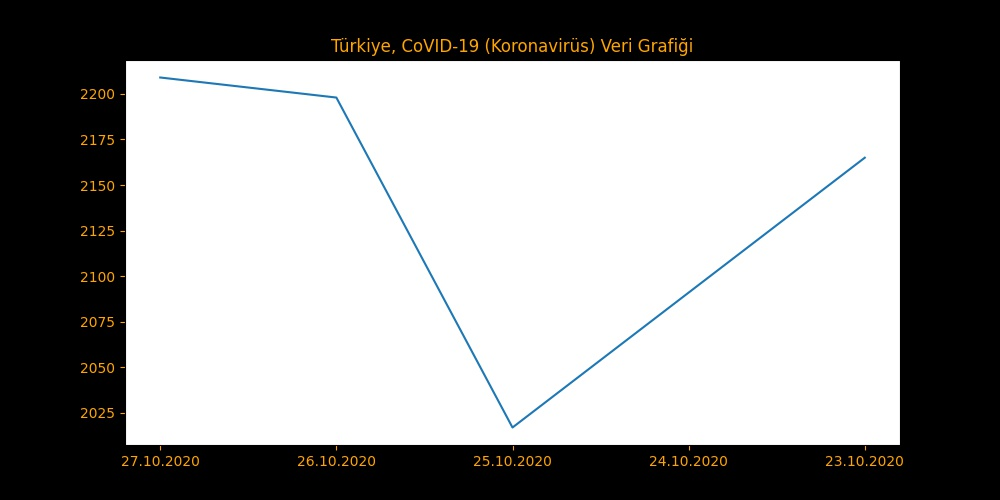
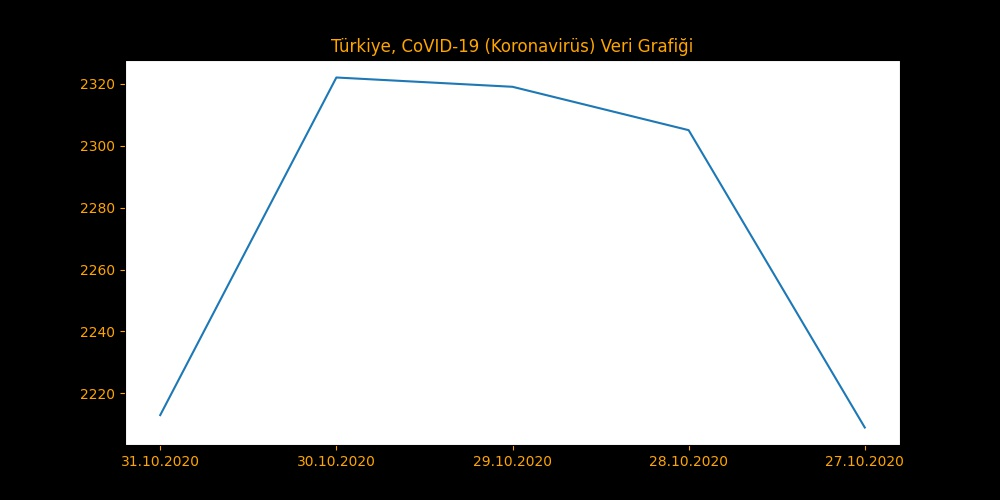
:notebook: 31.10.2020 Update

diff --git a/README_TR.md b/README_TR.md
@@ -11,18 +11,18 @@ Burada, Türkiye'nin [COVID-19 (Koronavirüs) (Hakkında bilgi almak için tıkl
 Not: Bütün veriler, Türkiye Sağlık Bakanlığı'ndan sağlanmaktadır. Eğer veriler güncel değilse, bu büyük ihtimal [devletin web sitesi](https://covid19.saglik.gov.tr) ile alakalıdır. Tamamdır, o zaman başlayalım!
 
 Öncelikle bugünün verileri:
-## :calendar: 27.10.2020 Koronavirüs Verileri:
+## :calendar: 31.10.2020 Koronavirüs Verileri:
 | Veri Tipi         | Bugünün Verileri   | Toplam Veriler     |
 | :---              |    :----           |     :---           |
-| Testler           | 127,651    | 13,565,813    |
-| Vakalar           | 2,209   | 364,788    |
-| Tedaviler         | 1,511    | 318,546|
-| Vefatlar          | 76| 9,951   |
+| Testler           | 124,109    | 14,085,633    |
+| Vakalar           | 2,213   | 373,951    |
+| Tedaviler         | 1,506    | 324,993|
+| Vefatlar          | 75| 10,252   |
 
-:clock9: `Son Güncelleme: 27.10.2020 19:23`
+:clock9: `Son Güncelleme: 01.11.2020 01:49`
 \
 \
-Ülkemiz ile alakalı gönderilen verilerde bir gariplik var. Devletin verdiği toplam veriler ile günlük veriler arasında uyuşmazlık mevcut. Eğer her günün verisini birbirine eklersek, Bizim hesaplamamız vakalar için **1420** tane daha az çıkıyor. Bu, ölümler için **1** , testler için **87361** ve tedavi olanlar için **1027** . Neden devletimiz böyle bir şey yapıyor anlamıyoruz. YOKSA VERİLER YANLIŞ MI??!?\
+Ülkemiz ile alakalı gönderilen verilerde bir gariplik var. Devletin verdiği toplam veriler ile günlük veriler arasında uyuşmazlık mevcut. Eğer her günün verisini birbirine eklersek, Bizim hesaplamamız vakalar için **1416** tane daha az çıkıyor. Bu, ölümler için **0** , testler için **83819** ve tedavi olanlar için **1022** . Neden devletimiz böyle bir şey yapıyor anlamıyoruz. YOKSA VERİLER YANLIŞ MI??!?\
 Neyse tamam, hadi grafikler hakkında konuşalım. Dünle bu günün karşılaştırma grafiği:\
 ![alt text](https://github.com/lysep-corp/COVID-19/blob/master/Graphs/YESTERDAY_COMP_TODAY_TR.jpeg?raw=true)
 

diff --git a/README.md b/README.md
@@ -11,18 +11,18 @@ In this we will gonna show you where is the Turkey going about [COVID-19 Pandemi
 Note: All the data coming from Türk Ministery of Health's public website. If datas are not up-to-date, probably this is about the [goverment's website](https://covid19.saglik.gov.tr) if our server's are not die. Okey, Let's start than!
 
 First today's datas:
-## :calendar: 27.10.2020 Corona virus Datas:
+## :calendar: 31.10.2020 Corona virus Datas:
 | Data Type         | Today's Datas      | All Time Data      |
 | :---              |    :----           |     :---           |
-| Tests             | 127,651    | 364,788    |
-| Cases             | 2,209   | 9,951   |
-| Cures             | 1,511    | 13,565,813    |
-| Deaths            | 76| 318,546|
+| Tests             | 124,109    | 373,951    |
+| Cases             | 2,213   | 10,252   |
+| Cures             | 1,506    | 14,085,633    |
+| Deaths            | 75| 324,993|
 
-:clock9: `Last Update: 27.10.2020 19:23`
+:clock9: `Last Update: 01.11.2020 01:49`
 \
 \
-There is something weird going on about our country's data. There is a little bit difference about goverment's all time data and daily datas. If we gonna add everyday's data to each other, Our calculation is **1420** less than the goverment's case calculation. It's **1** for deaths, **87361** for tests and **1027** for cured person count. We don't know why our country is doing that. ARE THE DATAS WRONG??!?\
+There is something weird going on about our country's data. There is a little bit difference about goverment's all time data and daily datas. If we gonna add everyday's data to each other, Our calculation is **1416** less than the goverment's case calculation. It's **0** for deaths, **83819** for tests and **1022** for cured person count. We don't know why our country is doing that. ARE THE DATAS WRONG??!?\
 Okey, let's talk about the graphs. Here is today's data is compare with yesterdays:\
 ![YESTERDAY_COMP_TODAY_EN](https://github.com/lysep-corp/COVID-19/blob/master/Graphs/YESTERDAY_COMP_TODAY_EN.jpeg?raw=true)
 
